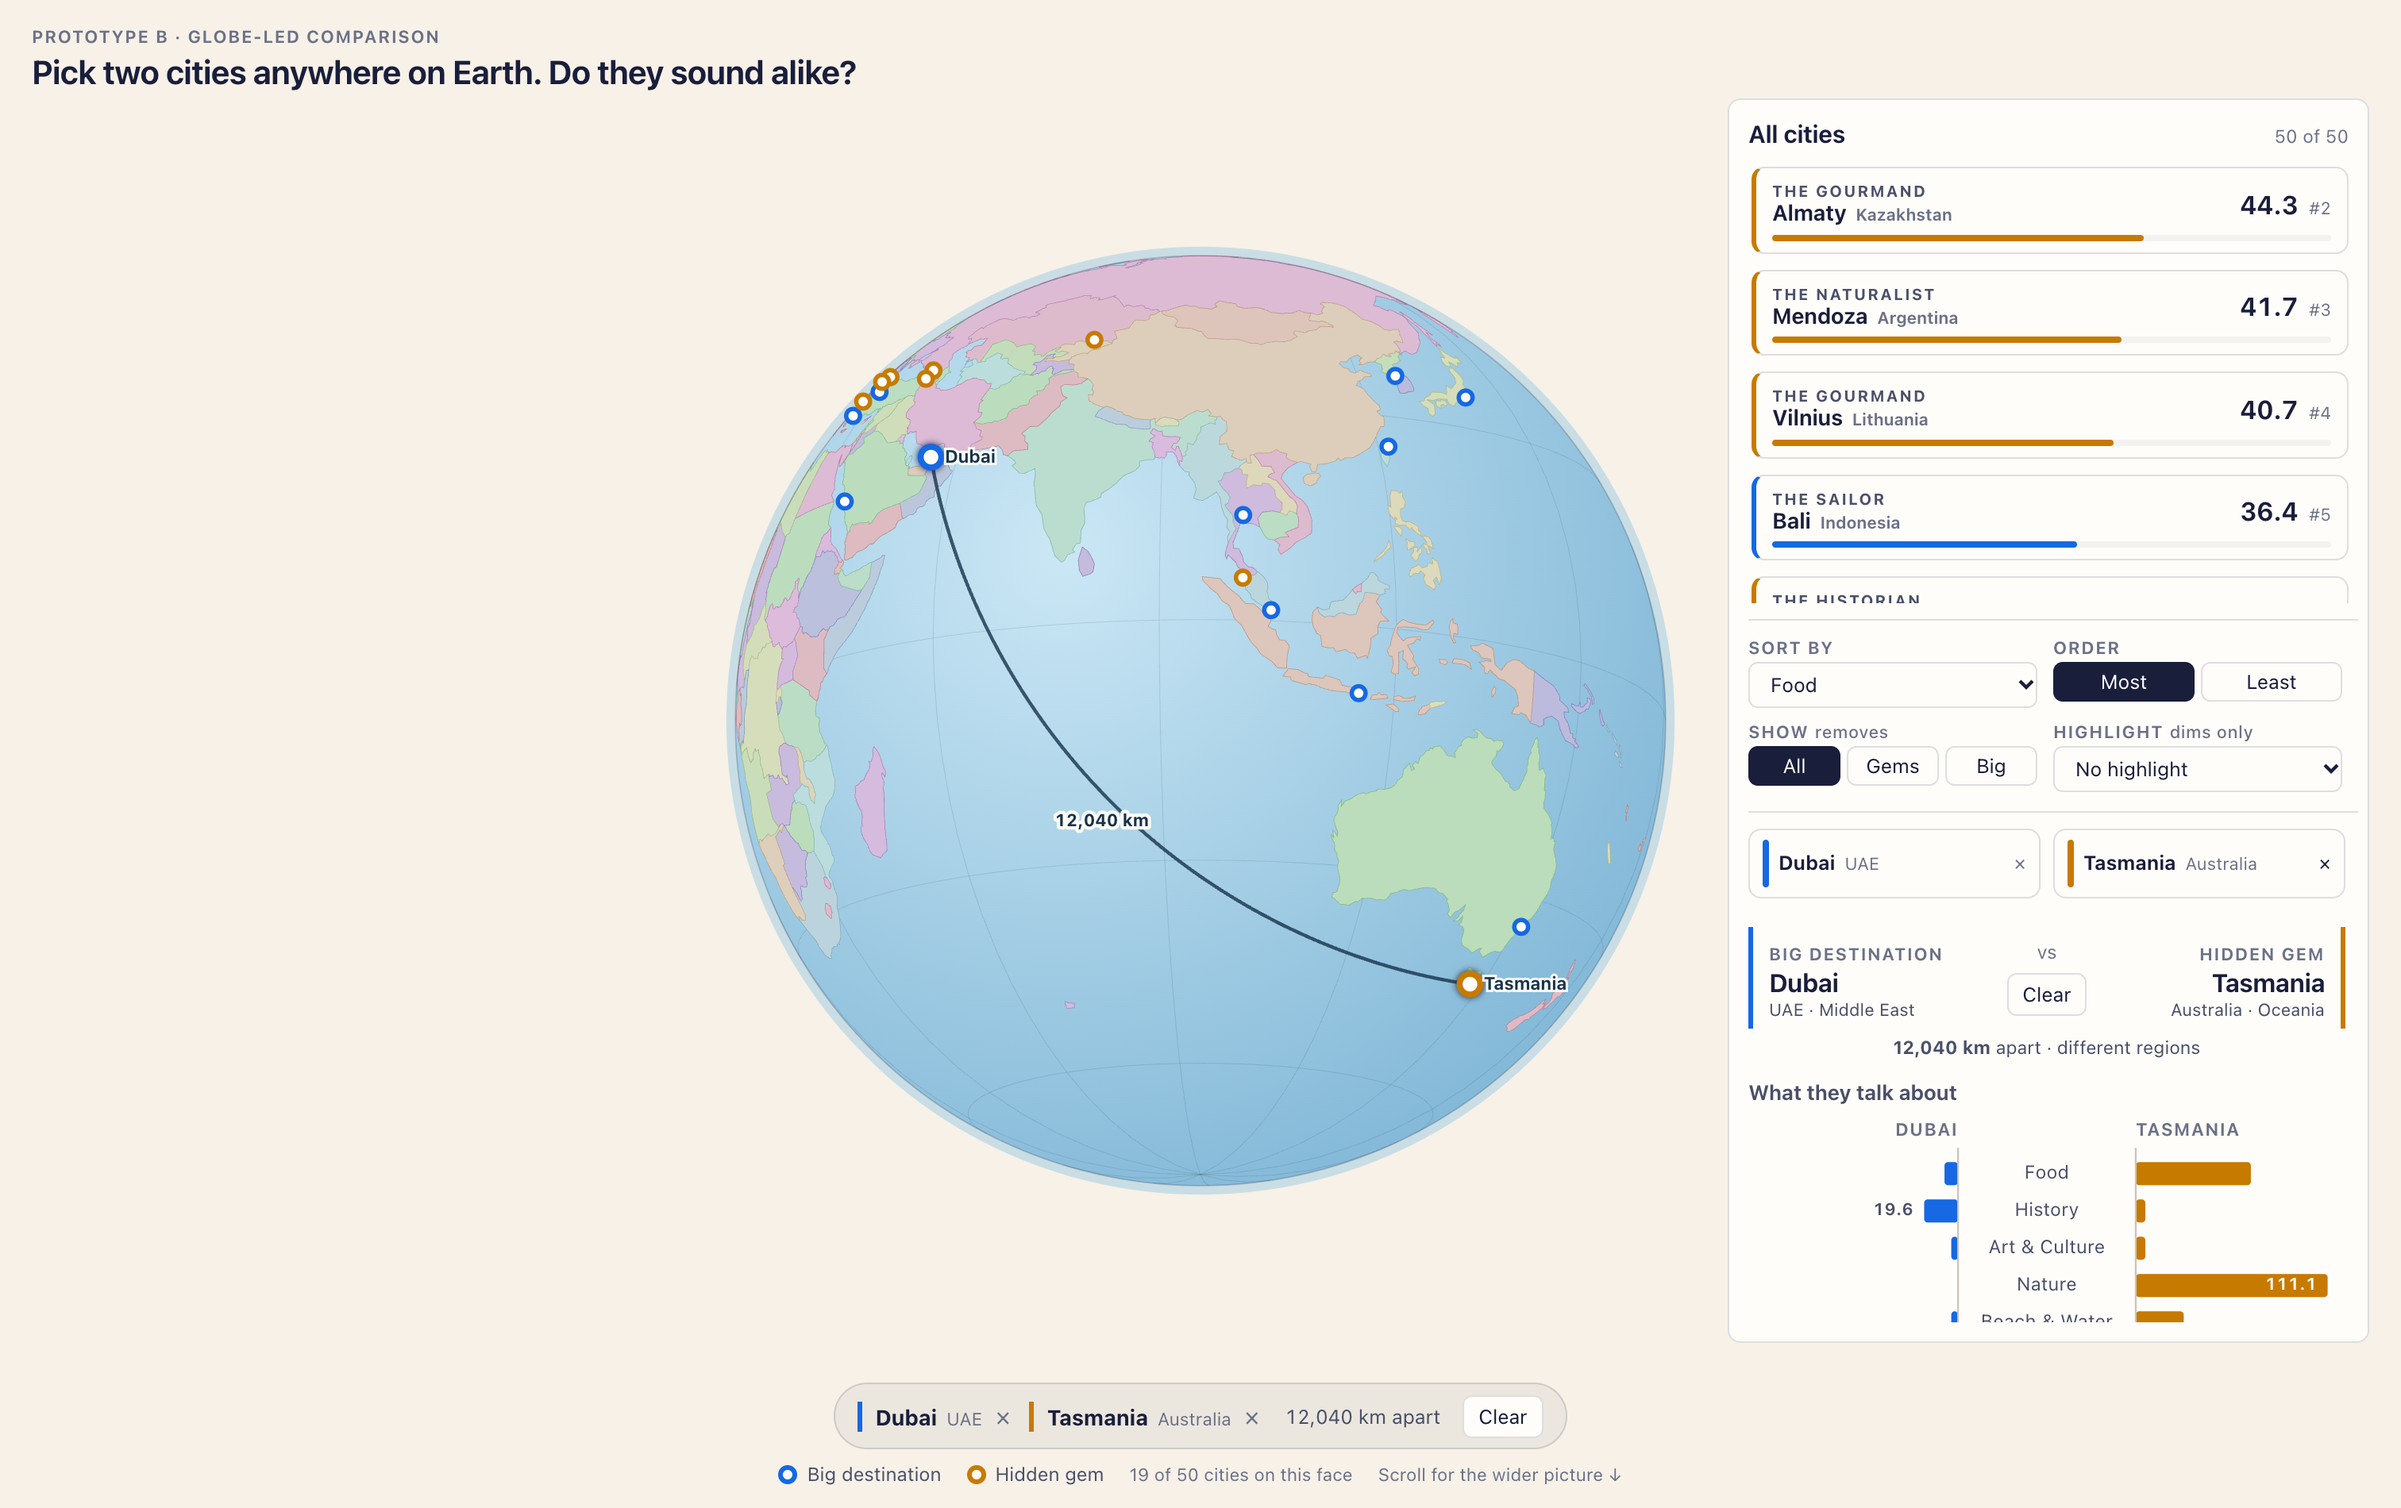
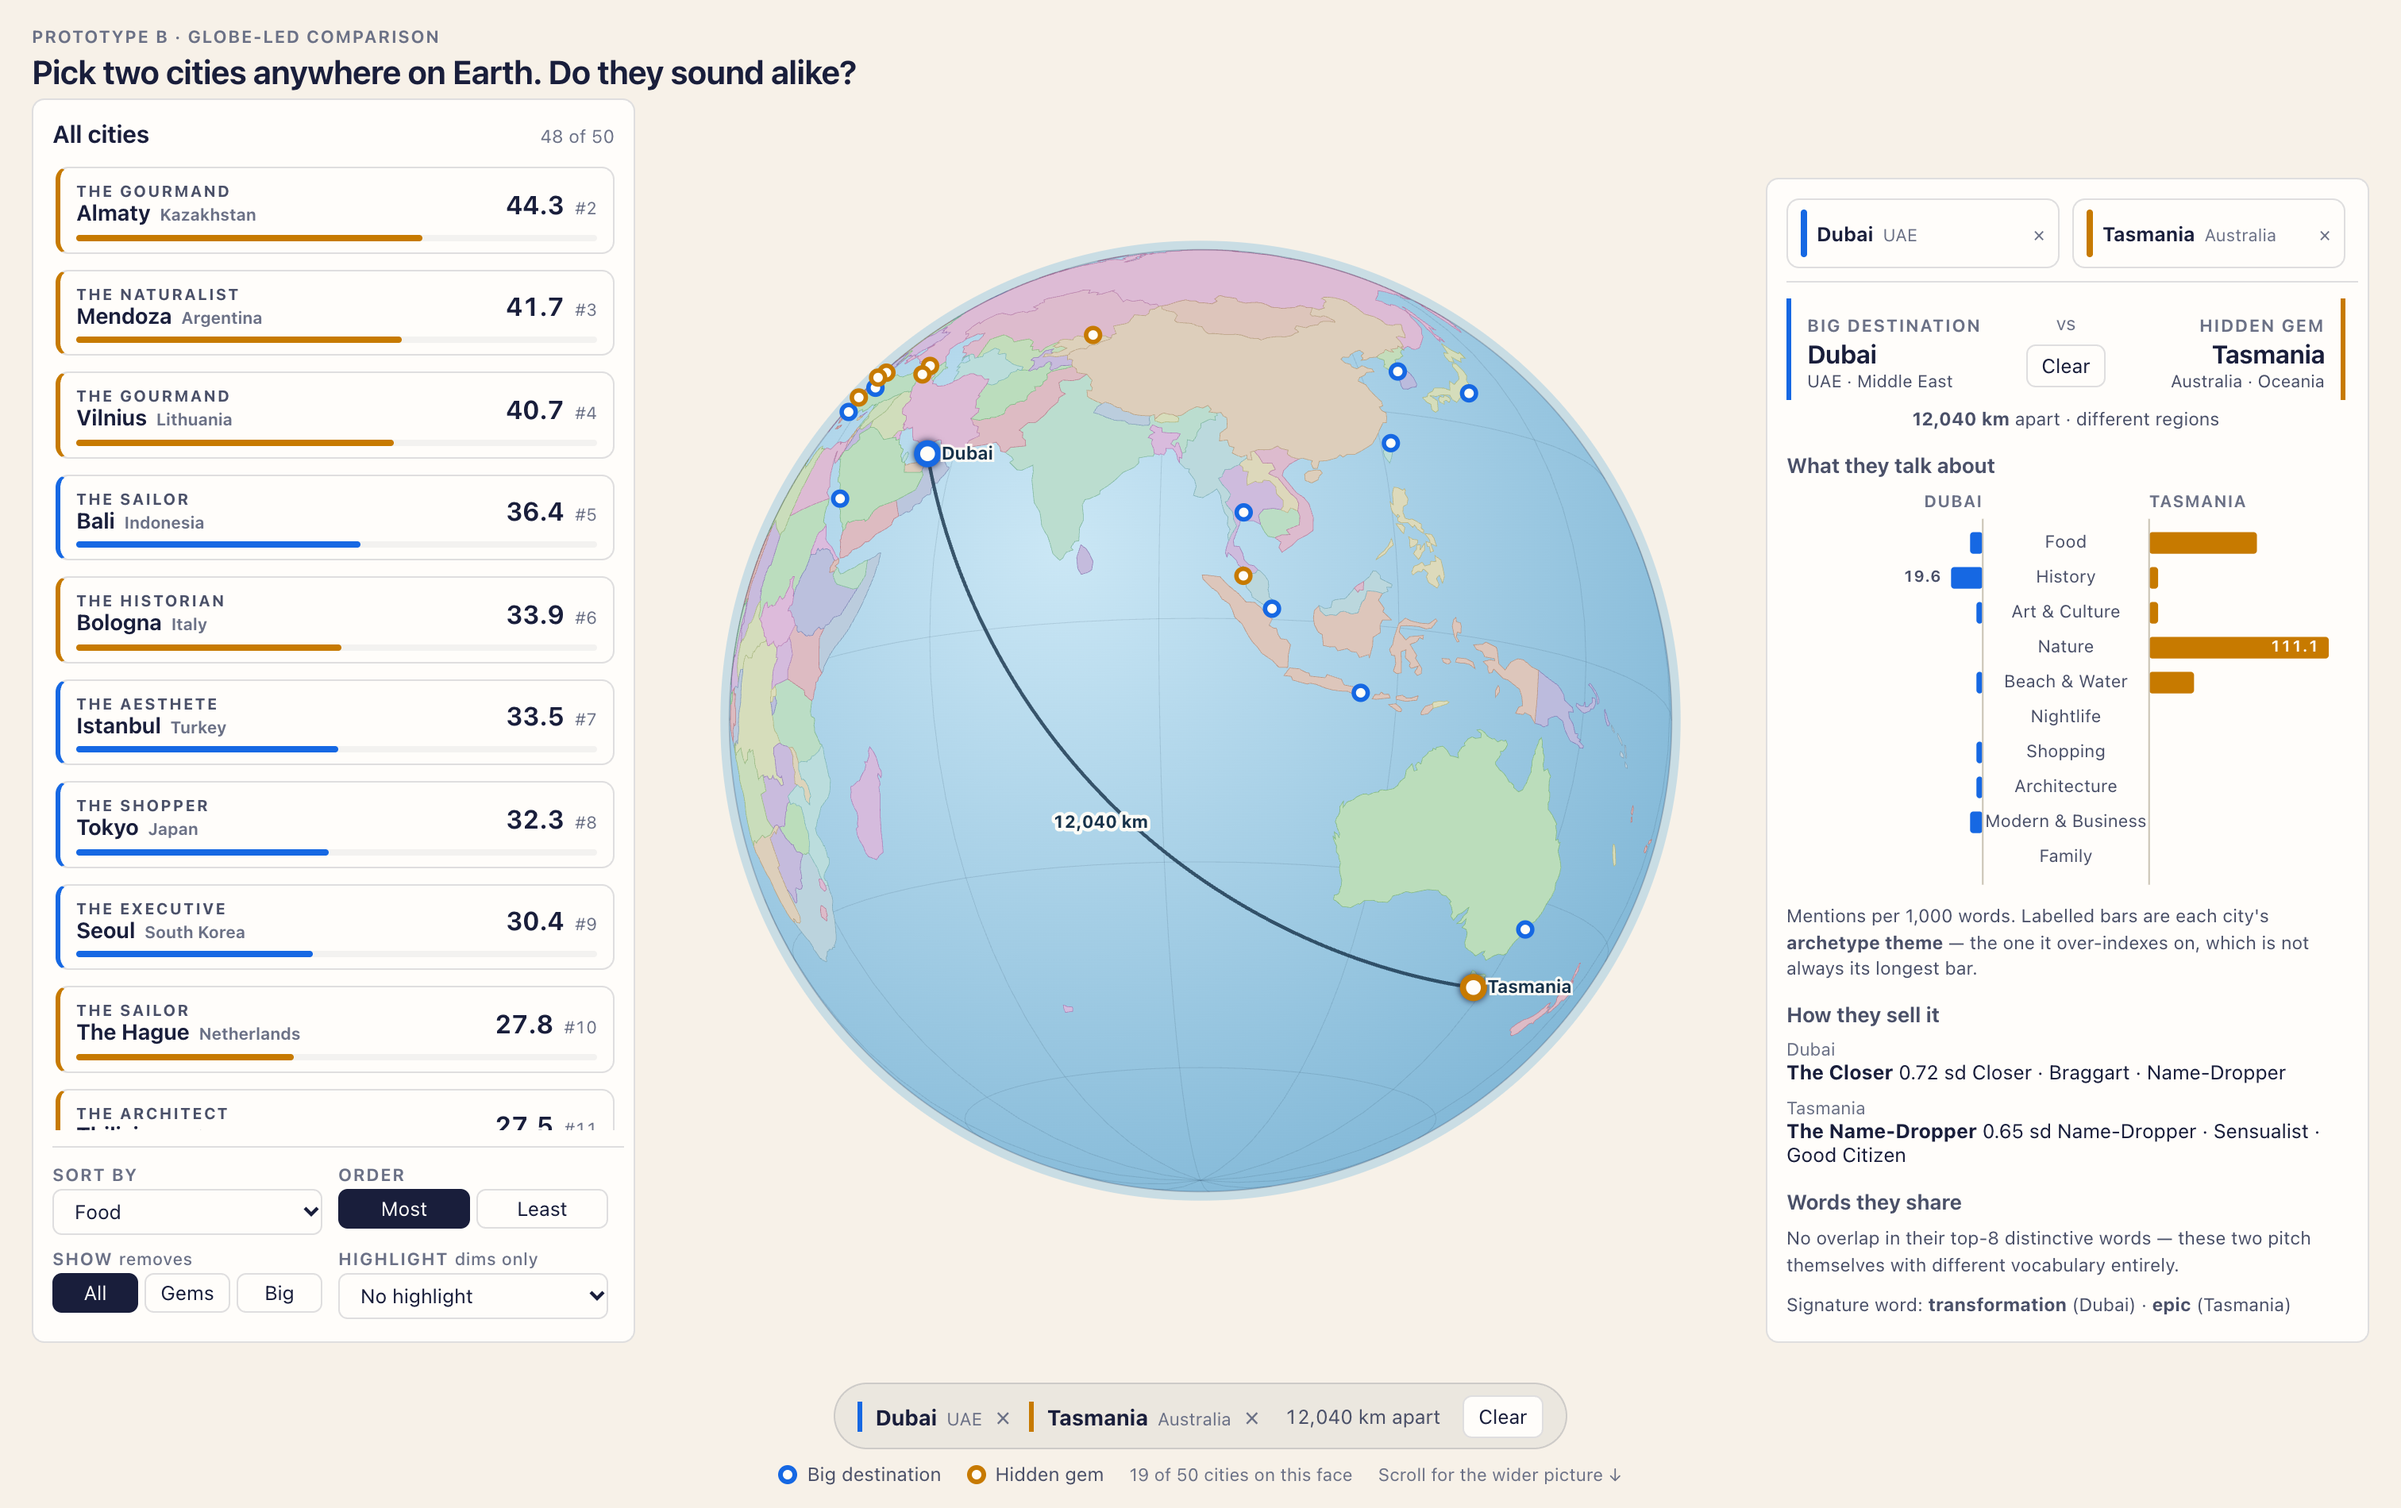
prototype B: deck on the left, comparator bottom-right
Three zones across the hero: the card deck and its sort/filter controls
on the left, the globe centred between them, and the two drop slots
with the comparison in their own box anchored to the bottom-right
corner. The comparator grows upward from that corner as the comparison
fills in, capped so it never reaches the title.

Both panels reserve equal width, so the globe stays centred on the page
rather than drifting toward whichever side is emptier. Verified 0.0px
off centre, with the sphere clear of both panels.

38/38 interaction checks pass, no console errors.

diff --git a/src/routes/prototype-b/+page.svelte b/src/routes/prototype-b/+page.svelte
@@ -212,50 +212,56 @@
             </label>
           </div>
 
-          <!-- Two slots you can drag a card into. A city is either in the
-               inventory or in a slot, so selecting one visibly moves it. -->
-          <div class="slots">
-            {#each [0, 1] as i}
-              {@const held = slots[i] ? byName.get(slots[i]) : null}
-              <div
-                class="slot"
-                class:filled={!!held}
-                class:over={dragOver === i}
-                role="button"
-                tabindex="0"
-                aria-label={held ? `Slot ${i + 1}: ${held.city}. Press to remove.` : `Empty slot ${i + 1}. Drop a city here.`}
-                ondragover={(e) => { e.preventDefault(); e.dataTransfer.dropEffect = 'move'; dragOver = i; }}
-                ondragleave={() => (dragOver === i ? (dragOver = null) : null)}
-                ondrop={(e) => onDrop(e, i)}
-                onclick={() => held && clearSlot(i)}
-                onkeydown={(e) => {
-                  if (held && (e.key === 'Enter' || e.key === ' ')) { e.preventDefault(); clearSlot(i); }
-                }}
-              >
-                {#if held}
-                  <span class="slot-rank" class:gem={held.category === 'hidden'}></span>
-                  <span class="slot-name">{held.city}</span>
-                  <span class="slot-sub">{held.country}</span>
-                  <span class="slot-x" aria-hidden="true">×</span>
-                {:else}
-                  <span class="slot-empty">Drop a city here</span>
-                {/if}
-              </div>
-            {/each}
-          </div>
+        </aside>
 
-          <!-- The pair comparison lives under the deck, so picking two cities
-               and reading the result never leaves this screen. -->
-          <div class="inv-compare">
-            <HeadToHead
-              a={cityA}
-              b={cityB}
-              {cities}
-              compact={true}
-              onclear={() => (slots = [null, null])}
-              onhovercity={(c) => (hoveredCity = c)}
-            />
-          </div>
+        <!-- The comparator: its own box in the bottom-right corner, so the
+             deck on the left and the result on the right never crowd the
+             globe between them. -->
+        <aside class="comparator">
+        <!-- Two slots you can drag a card into. A city is either in the
+             inventory or in a slot, so selecting one visibly moves it. -->
+        <div class="slots">
+          {#each [0, 1] as i}
+            {@const held = slots[i] ? byName.get(slots[i]) : null}
+            <div
+              class="slot"
+              class:filled={!!held}
+              class:over={dragOver === i}
+              role="button"
+              tabindex="0"
+              aria-label={held ? `Slot ${i + 1}: ${held.city}. Press to remove.` : `Empty slot ${i + 1}. Drop a city here.`}
+              ondragover={(e) => { e.preventDefault(); e.dataTransfer.dropEffect = 'move'; dragOver = i; }}
+              ondragleave={() => (dragOver === i ? (dragOver = null) : null)}
+              ondrop={(e) => onDrop(e, i)}
+              onclick={() => held && clearSlot(i)}
+              onkeydown={(e) => {
+                if (held && (e.key === 'Enter' || e.key === ' ')) { e.preventDefault(); clearSlot(i); }
+              }}
+            >
+              {#if held}
+                <span class="slot-rank" class:gem={held.category === 'hidden'}></span>
+                <span class="slot-name">{held.city}</span>
+                <span class="slot-sub">{held.country}</span>
+                <span class="slot-x" aria-hidden="true">×</span>
+              {:else}
+                <span class="slot-empty">Drop a city here</span>
+              {/if}
+            </div>
+          {/each}
+        </div>
+
+        <!-- The pair comparison lives under the deck, so picking two cities
+             and reading the result never leaves this screen. -->
+        <div class="inv-compare">
+          <HeadToHead
+            a={cityA}
+            b={cityB}
+            {cities}
+            compact={true}
+            onclear={() => (slots = [null, null])}
+            onhovercity={(c) => (hoveredCity = c)}
+          />
+        </div>
         </aside>
       </div>
 
@@ -367,17 +373,18 @@
     flex: none;
     /* Leave room for the floating inventory on the right (340px + gutters)
        on both sides, so the sphere stays centred and never runs under it. */
-    width: min(calc(100% - 848px), calc(100dvh - 240px));
+    width: min(calc(100% - 840px), calc(100dvh - 240px));
     height: auto;
     aspect-ratio: 1;
   }
 
+  /* Deck on the left, comparator on the right, globe centred between them. */
   .inventory {
     position: absolute;
     top: 62px;
-    right: 20px;
+    left: 20px;
     bottom: 104px;
-    width: 404px;
+    width: 380px;
     z-index: 3;
     min-height: 0;
     display: flex;
@@ -400,19 +407,37 @@
   /* Its own scroller, so running out of cards hands the scroll back to the
      page and the snap still works. */
   .inv-list {
-    flex: 1 1 52%;
+    flex: 1 1 auto;
     min-height: 0;
     overflow-y: auto;
     overscroll-behavior: contain;
     padding: 2px 6px 2px 2px;
   }
 
+  /* Anchored to the bottom-right corner rather than filling the column, so
+     it reads as a tray the cards are dropped into. */
+  .comparator {
+    position: absolute;
+    right: 20px;
+    bottom: 104px;
+    width: 380px;
+    max-height: calc(100% - 180px);
+    z-index: 3;
+    display: flex;
+    flex-direction: column;
+    gap: 8px;
+    background: var(--surface-1);
+    border: 1px solid var(--border);
+    border-radius: var(--radius);
+    padding: 12px 6px 12px 12px;
+  }
+
   .slots {
     display: grid;
     grid-template-columns: 1fr 1fr;
     gap: 8px;
-    padding: 10px 8px 0 0;
-    border-top: 1px solid var(--border);
+    padding: 0 8px 0 0;
+    flex: none;
   }
   .slot {
     display: flex; align-items: center; gap: 6px;
@@ -449,11 +474,12 @@
 
   /* Its own scroller too, so a long comparison never pushes the deck off. */
   .inv-compare {
-    flex: 1 1 48%;
+    flex: 1 1 auto;
     min-height: 0;
     overflow-y: auto;
     overscroll-behavior: contain;
-    padding: 8px 8px 2px 0;
+    border-top: 1px solid var(--border);
+    padding: 10px 8px 2px 0;
   }
   .inv-compare::-webkit-scrollbar { width: 8px; }
   .inv-compare::-webkit-scrollbar-thumb { background: var(--border); border-radius: 4px; }
@@ -468,6 +494,7 @@
     gap: 8px 10px;
     padding: 10px 10px 2px 0;
     border-top: 1px solid var(--border);
+    flex: none;
   }
   .inv-filters .field { gap: 3px; }
   .inv-filters select { width: 100%; }
